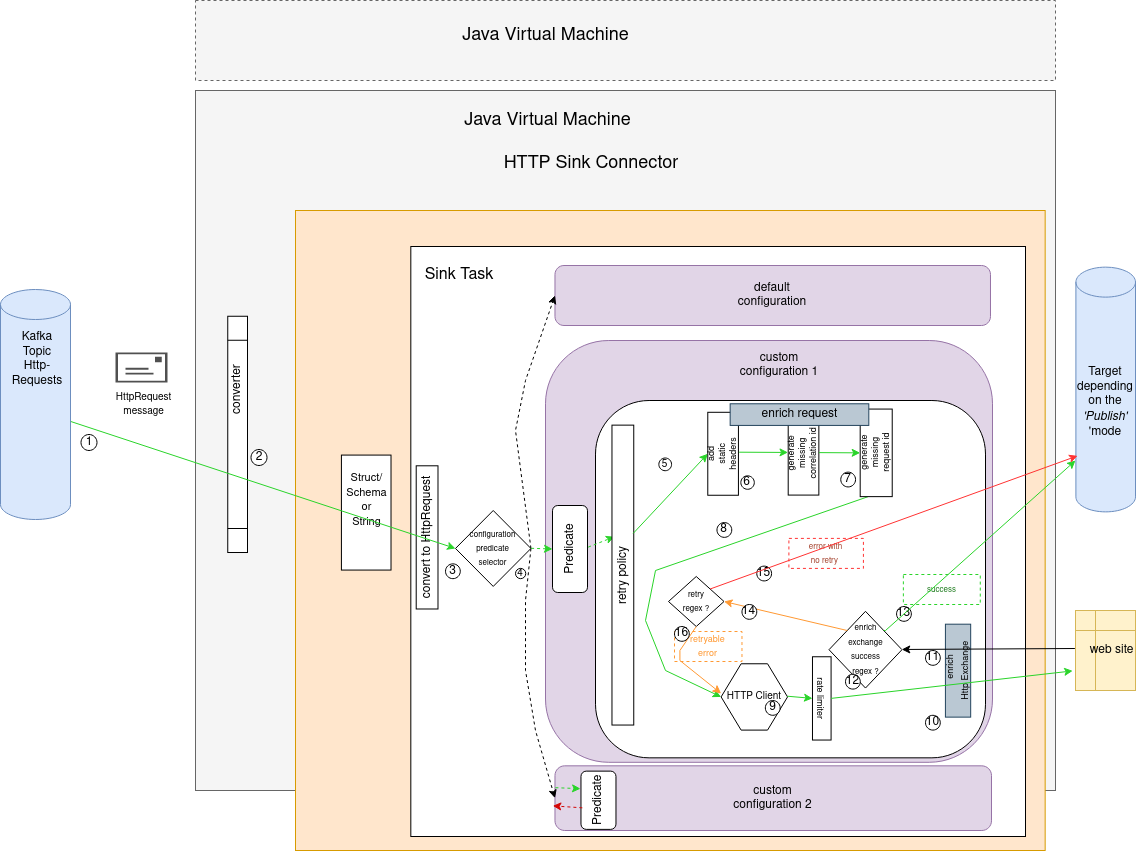
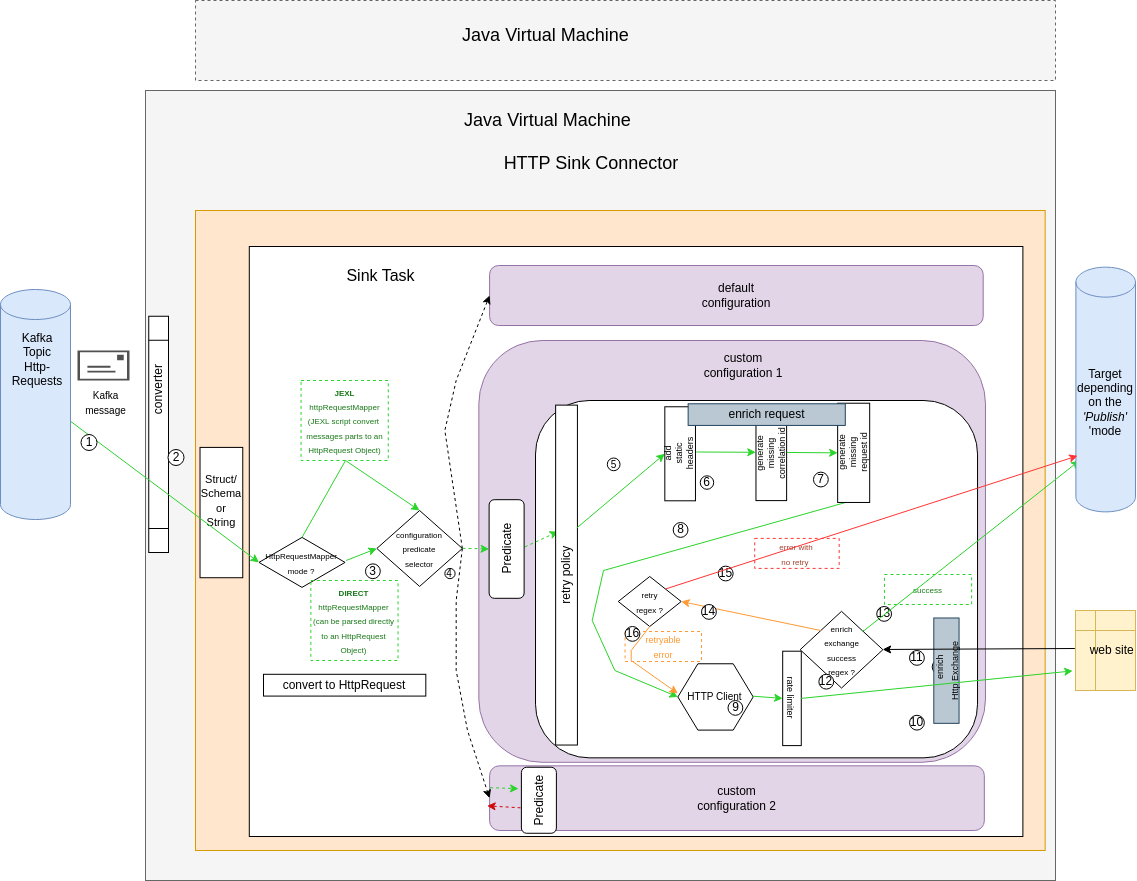
add doc and fix httprequestMapper config

Changed region(s): [[0.0, 0.0917, 1.0, 1.0], [0.4005, 0.0306, 0.5546, 0.0611], [0.0, 0.5805, 0.0616, 0.611]]

diff --git a/kafka-connect-http-connectors/src/test/java/io/github/clescot/kafka/connect/http/sink/HttpSinkTaskTest.java b/kafka-connect-http-connectors/src/test/java/io/github/clescot/kafka/connect/http/sink/HttpSinkTaskTest.java
@@ -497,10 +497,10 @@ public class HttpSinkTaskTest {
                 HashMap<String, String> settings = Maps.newHashMap();
                 settings.put(REQUEST_MAPPER_DEFAULT_MODE, MapperMode.DIRECT.name());
                 settings.put(HTTP_REQUEST_MAPPER_IDS, "myid1,myid2");
-                settings.put("request.mapper.myid1.mode", MapperMode.DIRECT.name());
-                settings.put("request.mapper.myid1.matcher", "sinkRecord.topic()=='myTopic'");
-                settings.put("request.mapper.myid2.mode", MapperMode.DIRECT.name());
-                settings.put("request.mapper.myid2.matcher", "sinkRecord.topic()=='myTopic2'");
+                settings.put("http.request.mapper.myid1.mode", MapperMode.DIRECT.name());
+                settings.put("http.request.mapper.myid1.matcher", "sinkRecord.topic()=='myTopic'");
+                settings.put("http.request.mapper.myid2.mode", MapperMode.DIRECT.name());
+                settings.put("http.request.mapper.myid2.matcher", "sinkRecord.topic()=='myTopic2'");
 
 
                 okHttpSinkTask.start(settings);
@@ -576,15 +576,15 @@ public class HttpSinkTaskTest {
                 HashMap<String, String> settings = Maps.newHashMap();
                 settings.put(REQUEST_MAPPER_DEFAULT_MODE, MapperMode.DIRECT.name());
                 settings.put(HTTP_REQUEST_MAPPER_IDS, "myid1,myid2");
-                settings.put("request.mapper.myid1.mode", MapperMode.JEXL.name());
-                settings.put("request.mapper.myid1.matcher", "sinkRecord.topic()=='myTopic'");
-                settings.put("request.mapper.myid1.url", "sinkRecord.value().split(\"#\")[0]");
-                settings.put("request.mapper.myid1.method", "sinkRecord.value().split(\"#\")[1]");
-                settings.put("request.mapper.myid1.bodytype", "'STRING'");
-                settings.put("request.mapper.myid1.body", "sinkRecord.value().split(\"#\")[2]");
-                settings.put("request.mapper.myid1.headers", "{'test1':['value1','value2',...]}");
-                settings.put("request.mapper.myid2.mode", MapperMode.DIRECT.name());
-                settings.put("request.mapper.myid2.matcher", "sinkRecord.topic()=='myTopic2'");
+                settings.put("http.request.mapper.myid1.mode", MapperMode.JEXL.name());
+                settings.put("http.request.mapper.myid1.matcher", "sinkRecord.topic()=='myTopic'");
+                settings.put("http.request.mapper.myid1.url", "sinkRecord.value().split(\"#\")[0]");
+                settings.put("http.request.mapper.myid1.method", "sinkRecord.value().split(\"#\")[1]");
+                settings.put("http.request.mapper.myid1.bodytype", "'STRING'");
+                settings.put("http.request.mapper.myid1.body", "sinkRecord.value().split(\"#\")[2]");
+                settings.put("http.request.mapper.myid1.headers", "{'test1':['value1','value2',...]}");
+                settings.put("http.request.mapper.myid2.mode", MapperMode.DIRECT.name());
+                settings.put("http.request.mapper.myid2.matcher", "sinkRecord.topic()=='myTopic2'");
 
 
                 okHttpSinkTask.start(settings);

diff --git a/kafka-connect-http-connectors/src/main/java/io/github/clescot/kafka/connect/http/sink/HttpSinkTask.java b/kafka-connect-http-connectors/src/main/java/io/github/clescot/kafka/connect/http/sink/HttpSinkTask.java
@@ -159,7 +159,7 @@ public abstract class HttpSinkTask<R, S> extends SinkTask {
         List<HttpRequestMapper> requestMappers = Lists.newArrayList();
         for (String httpRequestMapperId : Optional.ofNullable(config.getList(HTTP_REQUEST_MAPPER_IDS)).orElse(Lists.newArrayList())) {
             HttpRequestMapper httpRequestMapper;
-            String prefix = "request.mapper." + httpRequestMapperId;
+            String prefix = "http.request.mapper." + httpRequestMapperId;
             Map<String, Object> settings = config.originalsWithPrefix(prefix);
             String modeKey = ".mode";
             MapperMode mapperMode= MapperMode.valueOf(Optional.ofNullable(settings.get(modeKey)).orElse(MapperMode.DIRECT.name()).toString());

diff --git a/kafka-connect-http-connectors/src/main/java/io/github/clescot/kafka/connect/http/sink/HttpSinkConfigDefinition.java b/kafka-connect-http-connectors/src/main/java/io/github/clescot/kafka/connect/http/sink/HttpSinkConfigDefinition.java
@@ -118,7 +118,7 @@ public class HttpSinkConfigDefinition {
     public static final String HTTP_REQUEST_MAPPER_IDS = "http.request.mapper.ids";
     public static final String HTTP_REQUEST_MAPPER_IDS_DOC = "custom configurations id list. 'default' http request mapper is already registered.";
 
-    public static final String DEFAULT_REQUEST_MAPPER_PREFIX = "request.mapper.default.";
+    public static final String DEFAULT_REQUEST_MAPPER_PREFIX = "http.request.mapper.default.";
     public static final String REQUEST_MAPPER_DEFAULT_MODE = DEFAULT_REQUEST_MAPPER_PREFIX + "mode";
     public static final String REQUEST_MAPPER_DEFAULT_MODE_DOC = "either 'direct' or 'jexl'. default is 'direct'.";
 

diff --git a/docs/connectors_settings.md b/docs/connectors_settings.md
@@ -98,6 +98,68 @@ Both exports (JMX and Prometheus) can be combined.
   by default, the port open is the default prometheus one (`9090`), but you can define yours with this setting :
   `"meter.registry.exporter.prometheus.port":"9087`
 
+### HttpRequestMapper
+
+#### general
+
+An HttpRequestMapper permits to map a message to an `HttpRequest` object.
+There are 2 HttpRequestMapper modes available : `DIRECT` or `JEXL`.
+
+A Matcher setting, common to the `DIRECT` and the `JEXL` mappers, is a JEXL expression, related to the message identified
+by the variable `sinkRecord`.
+
+#### type of HttpRequestMapper
+
+
+- `DIRECT` HttpRequestMapper
+  This HttpRequestMapper implementation implies that it parses a direct serialization of an HttpRequest object.
+  It requires a 'JEXL' matching expression to evaluates if it matches a message.
+
+example :
+- `http.request.mapper.myid1.matcher:'sinkRecord.topic()=='myTopic''`
+
+- `JEXL` HttpRequestMapper
+  This HttpRequestMapper implementation implies that we need to build an HttpRequest object with some parts of the message.
+If the body of the kafka message from the topic `test` consumed is in the format :
+`url#method#body` (`http://mywebsite.com/path1#POST#body1`), we can configure the JEXL mapper :
+
+- `http.request.mapper.default.mode: 'JEXL'`
+- `http.request.mapper.default.url: 'sinkRecord.value().split("#")[0]'`
+- `http.request.mapper.default.method: 'sinkRecord.value().split("#")[1]'`
+- `http.request.mapper.default.body: 'sinkRecord.value().split("#")[2]'`
+
+JEXL HttpRequestMapper `bodytype` is by default `STRING` (the only option supported now).
+JEXL HttpRequestMapper headers ca be added as a constant with this setting (for a multi-valued :`value1` and `value2`, `test1` key):
+
+`http.request.mapper.default.headers:"{'test1':['value1','value2',...]}"`
+
+#### default HttpRequestMapper
+
+The connector ships with a `default` HttpRequestMapper, which maps all messages by default 
+(with a default catch-all message matcher on all topics), and we can, if needed, 
+configure more HttpRequestMappers (with some specific message matchers).
+
+The default mode is configured with `http.request.mapper.default.mode` set to `DIRECT` or `JEXL`.
+If not configured, the default mode is 'DIRECT'.
+
+It is useful to use a catch-all HttpRequestMapper to avoid to not process some messages. So, we don't recommand to change
+the matcher of the default mapper (by default, the setting `http.request.mapper.default.matcher` is configured with the
+JEXL `true` expression and used if no other mapper matches the message).
+
+
+#### additional HttpRequestMappers
+
+Additional HttpRequestMapper instances are configured with for each one a unique id set with `http.request.mapper.ids` 
+(a list divided by a comma).
+example : 
+`http.request.mapper.ids: 'myid1,myid2'`
+ 
+
+You can specify the topic of a DIRECT matcher mapping the `myTopic` messages with :
+- `http.request.mapper.myid1.mode:'DIRECT'`
+- `http.request.mapper.myid1.matcher:'sinkRecord.topic()=='myTopic''` 
+ 
+
 ### Configuration
 
 The connector ships with a `default` configuration, and we can, if needed, configure more configurations.

diff --git a/docs/architecture.md b/docs/architecture.md
@@ -4,7 +4,7 @@
 
 1. The HTTP Sink connector listen to the incoming HttpRequest topics (can be a list of topics, or a regex, via *topics* or *topics.regex* settings)
 2. a converter convert the byte array either as a string, or from a binary format described in a schema (Avro, JSON Schema or Protobuf)  to a Struct
-3. a sink task which get multiple records each time, convert the record (String or Struct) into an HttpRequest object.
+3. a sink task which get multiple records each time, convert the record (String or Struct) into an HttpRequest object, with a matching HttpRequestMapper.
 4. the sink task select the right configuration according to the predicate bound to it (the HttpRequest is tested against the predicate).
 5. if configured, the configuration add some additional static headers.
 6. if configured, the configuration add a correlation id if not found.
